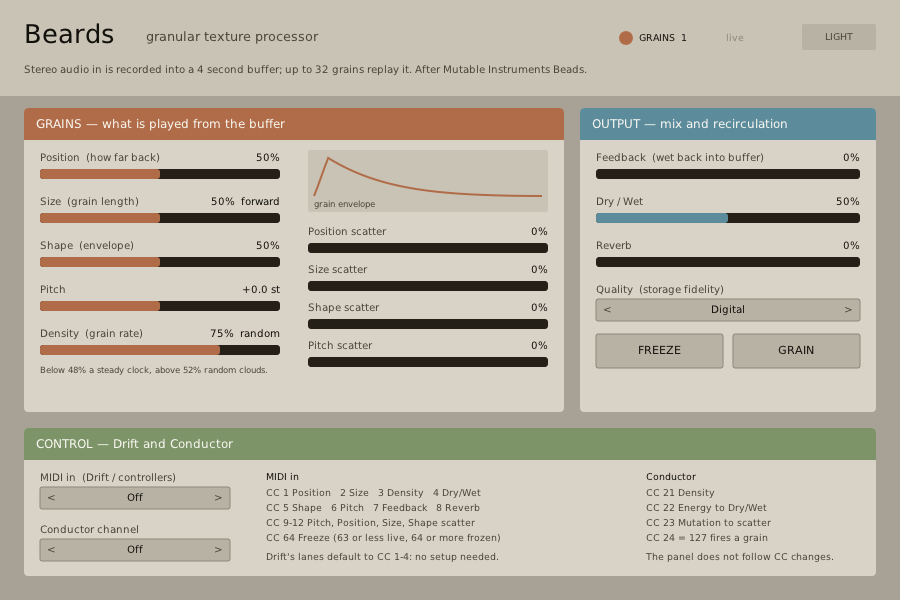
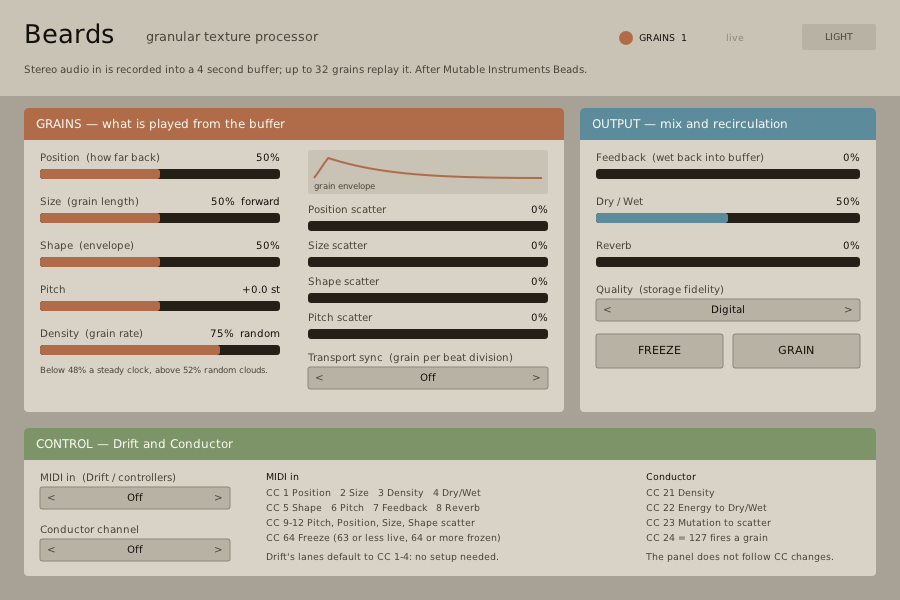
transport

Changed region(s): [[0.3422, 0.27, 0.6222, 0.66]]

diff --git a/plugins/beards/tests/beards_core_tests.cpp b/plugins/beards/tests/beards_core_tests.cpp
@@ -168,6 +168,7 @@ void testEveryControlHasAnEffect()
         {ParamId::sizeRand, 0.8f},  {ParamId::shapeRand, 0.8f}, {ParamId::pitchRand, 0.8f},
         {ParamId::quality, 1.0f},   {ParamId::quality, 2.0f},
     };
+    // sync is covered by the transport tests: it needs a playing transport to do anything.
     for (const Change& c : changes)
     {
         auto s = makeEngine();
@@ -333,6 +334,101 @@ void testGrainParameterFiresOnRisingEdge()
     assert(energy(render(*s, p, 0.2, 1.0f, n)) < 1.0e-9);
 }
 
+// Renders with the transport playing from `startQuarters`, as a host would: the
+// position is handed over at the top of every block. Returns the left channel.
+std::vector<float> renderPlaying(EngineState& state, const Parameters& p, const double seconds, const double bpm,
+                                 double startQuarters, Noise& noise, const bool playing = true)
+{
+    const std::size_t frames = static_cast<std::size_t>(seconds * kSampleRate);
+    std::vector<float> inL(frames), inR(frames), outL(frames), outR(frames);
+    for (std::size_t i = 0; i < frames; ++i)
+    {
+        inL[i] = noise.next();
+        inR[i] = noise.next();
+    }
+    std::size_t done = 0;
+    while (done < frames)
+    {
+        const std::size_t n = std::min<std::size_t>(256, frames - done);
+        Transport t;
+        t.playing = playing;
+        t.bpm = bpm;
+        t.quarters = startQuarters + static_cast<double>(done) * bpm / 60.0 / kSampleRate;
+        setTransport(state, t);
+        processBlock(state, p, static_cast<std::uint32_t>(n), inL.data() + done, inR.data() + done,
+                     outL.data() + done, outR.data() + done);
+        done += n;
+    }
+    return outL;
+}
+
+void testTransportSyncFiresGrainsOnTheGrid()
+{
+    // 120 bpm: a quarter note is 0.5 s. Density 0.5 is the no-automatic-grains dead zone.
+    Parameters p = wetPatch();
+    p[ParamId::density] = 0.5f;
+    p[ParamId::size] = 0.3f;  // short grains so each trigger is a distinct burst
+
+    for (const bool syncOn : {false, true})
+    {
+        auto s = makeEngine();
+        Noise n;
+        render(*s, p, 3.0, 1.0f, n);  // fill the buffer, transport stopped
+        p[ParamId::sync] = syncOn ? 3.0f : 0.0f;  // 1/4
+        const auto out = renderPlaying(*s, p, 2.0, 120.0, 0.0, n);
+        if (!syncOn)
+        {
+            assert(energy(out) < 1.0e-9);
+            continue;
+        }
+        // Grid lines at 0, 0.5, 1.0, 1.5 s: every half second window has a burst starting at its head.
+        for (int beat = 0; beat < 4; ++beat)
+        {
+            const std::size_t from = static_cast<std::size_t>(beat) * 24000;
+            assert(energy(out, from, from + 2400) > 1.0e-5);
+        }
+
+        // Starting part-way through a beat: silent until the next line, then a burst.
+        auto late = makeEngine();
+        Noise n2;
+        render(*late, p, 3.0, 1.0f, n2);
+        const auto lateOut = renderPlaying(*late, p, 1.0, 120.0, 0.25, n2);  // next line at 1.0 = 18000 samples in
+        assert(energy(lateOut, 0, 17000) < 1.0e-9);
+        assert(energy(lateOut, 18000, 20400) > 1.0e-5);
+    }
+}
+
+void testTransportSyncNeedsAPlayingTransport()
+{
+    auto s = makeEngine();
+    Noise n;
+    Parameters p = wetPatch();
+    p[ParamId::density] = 0.5f;
+    p[ParamId::sync] = 5.0f;  // 1/16
+    render(*s, p, 3.0, 1.0f, n);
+    assert(energy(renderPlaying(*s, p, 1.0, 120.0, 0.0, n, false)) < 1.0e-9);
+}
+
+void testTransportSyncDivisionsScaleTheRate()
+{
+    // Count distinct grain starts through the active-grain count rising from zero would be
+    // brittle; compare energy instead: 1/16 notes give more grains than 1/4 notes.
+    double e[2] = {};
+    int i = 0;
+    for (const float division : {3.0f, 5.0f})
+    {
+        auto s = makeEngine();
+        Noise n;
+        Parameters p = wetPatch();
+        p[ParamId::density] = 0.5f;
+        p[ParamId::size] = 0.3f;
+        p[ParamId::sync] = division;
+        render(*s, p, 3.0, 1.0f, n);
+        e[i++] = energy(renderPlaying(*s, p, 2.0, 120.0, 8.0, n));
+    }
+    assert(e[1] > 1.5 * e[0]);
+}
+
 void testHostActivationKeepsThePatch()
 {
     auto s = makeEngine();
@@ -376,6 +472,9 @@ int main()
     testConductorMapping();
     testConductorResetFiresAGrain();
     testGrainParameterFiresOnRisingEdge();
+    testTransportSyncFiresGrainsOnTheGrid();
+    testTransportSyncNeedsAPlayingTransport();
+    testTransportSyncDivisionsScaleTheRate();
     testHostActivationKeepsThePatch();
     std::puts("beards core tests passed");
     return 0;

diff --git a/plugins/beards/src/beards_engine.cpp b/plugins/beards/src/beards_engine.cpp
@@ -815,6 +815,15 @@ struct EngineImpl {
     bool pendingGrain = false;
     bool grainParamWas = false;
     int quality = 0;
+
+    // Transport sync: free-runs from the host position at block start, and
+    // resyncs when the transport starts or jumps.
+    Transport transport;
+    bool transportWasPlaying = false;
+    bool syncResync = true;
+    double syncPos = 0.0;
+    double syncIndex = 0.0;
+    double syncStepUsed = 0.0;
 };
 
 EngineState::EngineState() : impl(std::make_unique<EngineImpl>()) {}
@@ -840,6 +849,21 @@ void activate(EngineState& state, const double sampleRate)
     e.wet = 0.0f;
     e.pendingGrain = false;
     e.grainParamWas = false;
+    e.transport = {};
+    e.transportWasPlaying = false;
+    e.syncResync = true;
+}
+
+void setTransport(EngineState& state, const Transport& transport)
+{
+    EngineImpl& e = *state.impl;
+    const bool jumped = e.transportWasPlaying && std::fabs(transport.quarters - e.syncPos) > 0.05;
+    if (transport.playing && (!e.transportWasPlaying || jumped))
+        e.syncResync = true;
+    e.transportWasPlaying = transport.playing;
+    e.transport = transport;
+    if (e.syncResync)
+        e.syncPos = transport.quarters;
 }
 
 int activeGrains(const EngineState& state) { return state.impl->player.countActive(); }
@@ -858,6 +882,18 @@ void processBlock(EngineState& state, const Parameters& params, const std::uint3
     e.quality = quality;
     const bool frozen = params[ParamId::freeze] >= 0.5f;
     const float density = params[ParamId::density];
+
+    const int syncMode = std::clamp(static_cast<int>(std::lround(params[ParamId::sync])), 0, 6);
+    const double syncStep = kSyncQuarters[static_cast<std::size_t>(syncMode)];
+    const bool syncActive = syncStep > 0.0 && e.transport.playing;
+    const double quartersPerSample = e.transport.bpm / 60.0 / static_cast<double>(e.sampleRate);
+    if (e.syncResync || syncStep != e.syncStepUsed)
+    {
+        // A grid line exactly at the start position counts as upcoming.
+        e.syncIndex = std::ceil(e.syncPos / std::max(syncStep, 1.0e-6) - 1.0e-6) - 1.0;
+        e.syncStepUsed = syncStep;
+        e.syncResync = false;
+    }
 
     GrainParams gp;
     gp.time = {params[ParamId::position], params[ParamId::timeRand]};
@@ -904,7 +940,22 @@ void processBlock(EngineState& state, const Parameters& params, const std::uint3
             Frame input {sanitize(inL[idx]), sanitize(inR[idx])};
 
             Trigger trigger = e.triggers.tick(density, e.rng);
-            if (e.pendingGrain)
+            bool syncFire = false;
+            if (syncActive)
+            {
+                // Transport owns the clock while it plays; the random clock is muted.
+                trigger = Trigger {};
+                e.syncPos += quartersPerSample;
+                const double index = std::floor(e.syncPos / syncStep + 1.0e-9);
+                if (index > e.syncIndex)
+                {
+                    e.syncIndex = index;
+                    syncFire = true;
+                }
+            }
+            else if (e.transport.playing)
+                e.syncPos += quartersPerSample;
+            if (e.pendingGrain || syncFire)
             {
                 trigger.trigger = true;
                 trigger.fractionalSample = 0.0f;

diff --git a/plugins/beards/src/dpf/BeardsPlugin.cpp b/plugins/beards/src/dpf/BeardsPlugin.cpp
@@ -98,6 +98,18 @@ protected:
             break;
         }
 
+        case core::ParamId::sync:
+        {
+            static ParameterEnumerationValue values[7];
+            for (int i = 0; i < 7; ++i)
+            {
+                values[i].value = static_cast<float>(i);
+                values[i].label = core::kSyncNames[static_cast<std::size_t>(i)];
+            }
+            setEnumerations(parameter, values, 7);
+            break;
+        }
+
         case core::ParamId::conductorCh:
         {
             static ParameterEnumerationValue values[17];
@@ -147,6 +159,21 @@ protected:
             if (event.size >= 3)
                 core::applyMidi(parameters_, engineState_, event.data, event.size);
         }
+
+        core::Transport transport;
+        const TimePosition& pos = getTimePosition();
+        if (pos.playing && pos.bbt.valid && pos.bbt.beatType > 0.0f)
+        {
+            // BBT beats are in units of the time signature denominator.
+            const double beatsToQuarters = 4.0 / static_cast<double>(pos.bbt.beatType);
+            const double beatInBar = static_cast<double>(pos.bbt.beat - 1) +
+                                     (pos.bbt.ticksPerBeat > 0.0 ? pos.bbt.tick / pos.bbt.ticksPerBeat : 0.0);
+            transport.playing = true;
+            transport.quarters =
+                (static_cast<double>(pos.bbt.bar - 1) * pos.bbt.beatsPerBar + beatInBar) * beatsToQuarters;
+            transport.bpm = pos.bbt.beatsPerMinute > 0.0 ? pos.bbt.beatsPerMinute : 120.0;
+        }
+        core::setTransport(engineState_, transport);
 
         core::processBlock(engineState_, parameters_, frames, inputs[0], inputs[1], outputs[0], outputs[1]);
     }

diff --git a/plugins/beards/include/beards_params.hpp b/plugins/beards/include/beards_params.hpp
@@ -30,12 +30,13 @@ enum class ParamId : std::uint32_t {
     grain,          // momentary: fire one grain now
     midiCh,         // Drift / controller CC channel (0 off, 1-16, 17 all)
     conductorCh,    // Conductor CC channel (0 off, 1-16)
+    sync,           // transport grid for grain triggers (0 off, see kSyncNames)
     // Read-only status
     outGrains,
 };
 
-inline constexpr std::size_t kParameterCount = 18;
-inline constexpr std::size_t kInputParameterCount = 17;
+inline constexpr std::size_t kParameterCount = 19;
+inline constexpr std::size_t kInputParameterCount = 18;
 
 struct ParamSpec {
     const char* symbol;
@@ -67,10 +68,16 @@ inline constexpr std::array<ParamSpec, kParameterCount> kParameterSpecs = {{
     {"grain", "Grain", "", 0.0f, 1.0f, 0.0f, true, false},
     {"midi_ch", "MIDI in", "", 0.0f, 17.0f, 0.0f, true, false},
     {"conductor_ch", "Conductor", "", 0.0f, 16.0f, 0.0f, true, false},
+    {"sync", "Transport sync", "", 0.0f, 6.0f, 0.0f, true, false},
     {"out_grains", "Active grains", "", 0.0f, 32.0f, 0.0f, true, true},
 }};
 
 inline constexpr std::array<const char*, 3> kQualityNames = {"Digital", "Vintage", "Tape"};
+
+// Transport sync: a grain fires on every grid line of the host's BBT position
+// while the transport is playing. Grid spacing in quarter notes per index.
+inline constexpr std::array<const char*, 7> kSyncNames = {"Off", "1/1", "1/2", "1/4", "1/8", "1/16", "1/32"};
+inline constexpr std::array<double, 7> kSyncQuarters = {0.0, 4.0, 2.0, 1.0, 0.5, 0.25, 0.125};
 
 inline constexpr std::array<const char*, 18> kMidiChannelNames = {
     "Off", "1", "2", "3", "4", "5", "6", "7", "8", "9", "10", "11", "12", "13", "14", "15", "16", "All"};

diff --git a/plugins/beards/src/dpf/BeardsUI.cpp b/plugins/beards/src/dpf/BeardsUI.cpp
@@ -20,6 +20,7 @@ using downspout::beards::kMidiChannelNames;
 using downspout::beards::kParameterCount;
 using downspout::beards::kParameterSpecs;
 using downspout::beards::kQualityNames;
+using downspout::beards::kSyncNames;
 using downspout::beards::ParamId;
 
 struct Rect {
@@ -492,16 +493,18 @@ private:
         textAlign(ALIGN_LEFT | ALIGN_TOP);
         text(left, top + 5.0f * rowH - 6.0f, "Below 48% a steady clock, above 52% random clouds.", nullptr);
 
-        drawEnvelope({right, top - 2.0f, colW, 62.0f});
+        drawEnvelope({right, top - 2.0f, colW, 44.0f});
 
-        const float scatterTop = top + 74.0f;
-        const float scatterRow = 38.0f;
+        const float scatterTop = top + 52.0f;
+        const float scatterRow = 36.0f;
         drawSlider(ParamId::timeRand, "Position scatter", {right, scatterTop, colW, scatterRow}, kGrainAccent);
         drawSlider(ParamId::sizeRand, "Size scatter", {right, scatterTop + scatterRow, colW, scatterRow}, kGrainAccent);
         drawSlider(ParamId::shapeRand, "Shape scatter", {right, scatterTop + 2.0f * scatterRow, colW, scatterRow},
                    kGrainAccent);
         drawSlider(ParamId::pitchRand, "Pitch scatter", {right, scatterTop + 3.0f * scatterRow, colW, scatterRow},
                    kGrainAccent);
+        drawStepper(ParamId::sync, "Transport sync  (grain per beat division)",
+                    {right, scatterTop + 4.0f * scatterRow + 4.0f, colW, 44.0f}, kSyncNames.data());
     }
 
     // The grain envelope for the current Shape, so the control reads as a curve.

diff --git a/plugins/beards/include/beards_engine.hpp b/plugins/beards/include/beards_engine.hpp
@@ -30,6 +30,15 @@ void activate(EngineState& state, double sampleRate);
 void processBlock(EngineState& state, const Parameters& params, std::uint32_t frames,
                   const float* inL, const float* inR, float* outL, float* outR);
 
+// Host transport at the start of a block. `quarters` is the absolute position
+// in quarter notes (from BBT), `bpm` the tempo. Set before each processBlock.
+struct Transport {
+    bool playing = false;
+    double quarters = 0.0;
+    double bpm = 120.0;
+};
+void setTransport(EngineState& state, const Transport& transport);
+
 // Applies one raw MIDI message (status + data bytes) to the parameters:
 // controller map on MIDI in, Conductor CCs on the Conductor channel.
 // Returns true when a parameter changed or a grain was requested.

diff --git a/plugins/beards/src/dpf/DistrhoPluginInfo.h b/plugins/beards/src/dpf/DistrhoPluginInfo.h
@@ -21,6 +21,7 @@
 #define DISTRHO_PLUGIN_NUM_INPUTS       2
 #define DISTRHO_PLUGIN_NUM_OUTPUTS      2
 #define DISTRHO_PLUGIN_WANT_MIDI_INPUT  1
+#define DISTRHO_PLUGIN_WANT_TIMEPOS     1
 #define DISTRHO_PLUGIN_VST3_CATEGORIES  "Fx"
 #define DISTRHO_UI_DEFAULT_WIDTH        900
 #define DISTRHO_UI_DEFAULT_HEIGHT       600

diff --git a/plugins/beards/docs/design.md b/plugins/beards/docs/design.md
@@ -35,6 +35,14 @@ rewritten in `src/beards_engine.cpp`.
 - **Seed button and gate input.** Beards has no gate input. The clock free-runs from the
   first sample; the **Grain** button, CC 24 on the Conductor channel, and the Grain
   parameter's rising edge fire one grain at the start of the next block.
+- **Transport sync (addition).** The `sync` parameter (Off, 1/1 to 1/32) fires a grain on
+  every grid line of the host's BBT position (converted to quarter notes using the time
+  signature denominator) while the transport is playing. The engine then free-runs from
+  the block-start position at the host tempo and resyncs on start or a jump of more than
+  0.05 quarter notes. A grid line exactly at the start position fires. While sync is
+  active and the transport plays, the internal clock is muted so the pattern is the grid;
+  stopped transport, or Off, uses the internal clock as before. The Grain button and
+  Conductor Reset still fire on top.
 - **Not ported:** the delay (multitap) mode, the CV inputs and attenuverter polarity
   (random-walk modulation, negative attenuverters), the divider mode driven by an
   external gate, the output-gate mode, mono buffer mode and the gain calibration.

diff --git a/docs/pages/plugins-summary.md b/docs/pages/plugins-summary.md
@@ -557,7 +557,8 @@ Granular texture processor after Mutable Instruments Beads: stereo input is reco
 into a 4 second buffer and replayed by up to 32 overlapping grains, with Position, Size
 (below a third reads backwards), Shape, Pitch and Density, four scatter amounts,
 Feedback, Dry/Wet, a Griesinger reverb, Freeze, a Grain button and a Quality setting
-(Digital, Vintage 12 bit, Tape 8 bit mu-law). Density 48-52% is a silent dead zone.
+(Digital, Vintage 12 bit, Tape 8 bit mu-law). Density 48-52% is a silent dead zone. **Transport sync** (1/1 to 1/32) fires a grain on every
+host bar/beat grid line while the transport plays, replacing the random clock.
 CC 1 Position, 2 Size, 3 Density, 4 Dry/Wet (Drift defaults), 5 Shape, 6 Pitch,
 7 Feedback, 8 Reverb, 9-12 scatter, 64 Freeze on the **MIDI in** channel; Conductor CC
 21 Density, 22 Energy (Dry/Wet), 23 Mutation (scatter), 24 Reset (fires a grain) on

diff --git a/docs/pages/_products/beards.md b/docs/pages/_products/beards.md
@@ -25,7 +25,8 @@ Position seconds back, with a length set by Size (below a third it plays backwar
 envelope set by Shape, a transposition set by Pitch, and a stereo pan. Density sets the
 grain rate: a steady clock below 48%, random clouds above 52%, and nothing between
 (use the Grain button). Four scatter controls randomise Position, Size, Shape and Pitch
-per grain. Feedback recirculates the wet signal into the buffer, Freeze stops
+per grain. Transport sync (1/1 to 1/32) instead fires a grain on every bar/beat
+grid line while the host transport plays, locking the cloud to the tempo. Feedback recirculates the wet signal into the buffer, Freeze stops
 recording, and Quality chooses Digital, Vintage (12 bit) or Tape (8 bit mu-law).
 
 **Control from Drift and Conductor.** On the **MIDI in** channel, CC 1 Position, 2 Size,

diff --git a/plugins/beards/README.md b/plugins/beards/README.md
@@ -14,6 +14,10 @@ replayed by up to 32 overlapping grains.
   channel (CC 21 Density, 22 Energy to Dry/Wet, 23 Mutation to scatter, 24 Reset fires a
   grain). Both are off by default. See `docs/midi-mapping.md`.
 
+**Transport sync** (Off, 1/1 to 1/32) fires a grain on every grid line of the host's bar
+and beat position while the transport plays, in place of the random clock, so grains
+lock to the tempo. Needs a host that reports time position (REAPER does).
+
 Density between 48% and 52% plays no automatic grains (use the Grain button or
 Conductor Reset). Feedback and Reverb can build up; trim output. See `docs/design.md`
 for what was and was not carried over from Beads.
